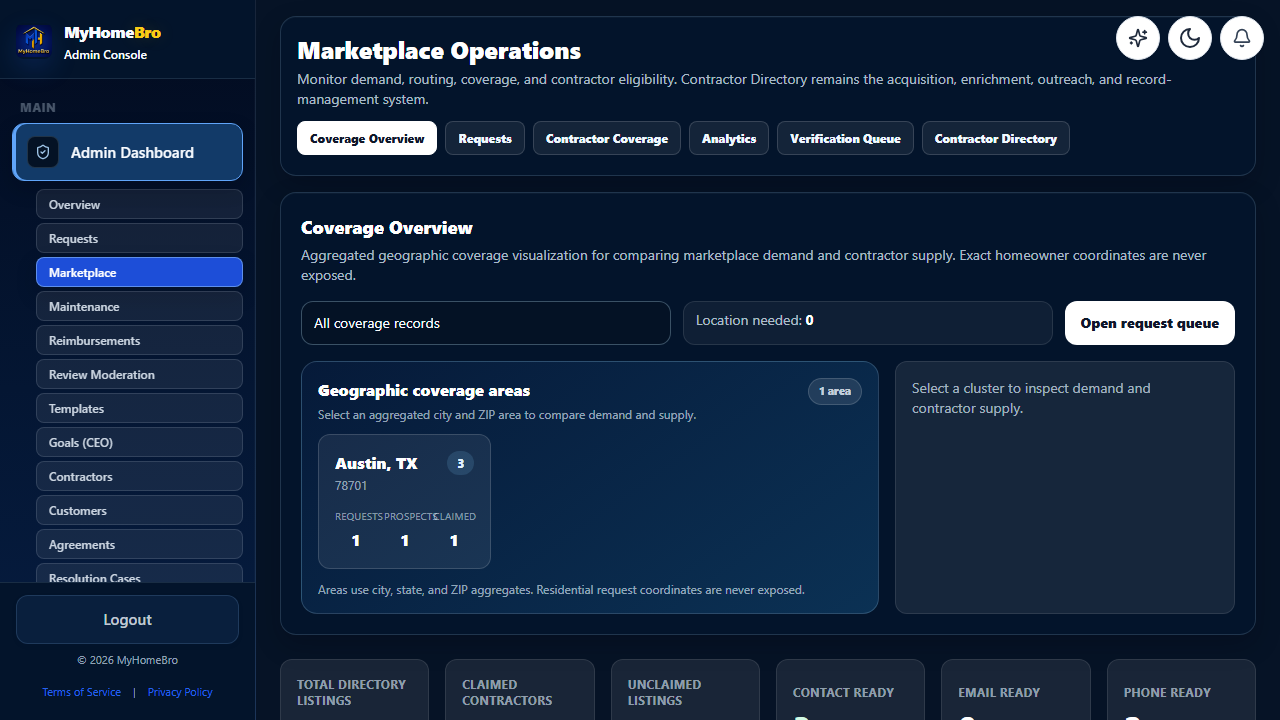
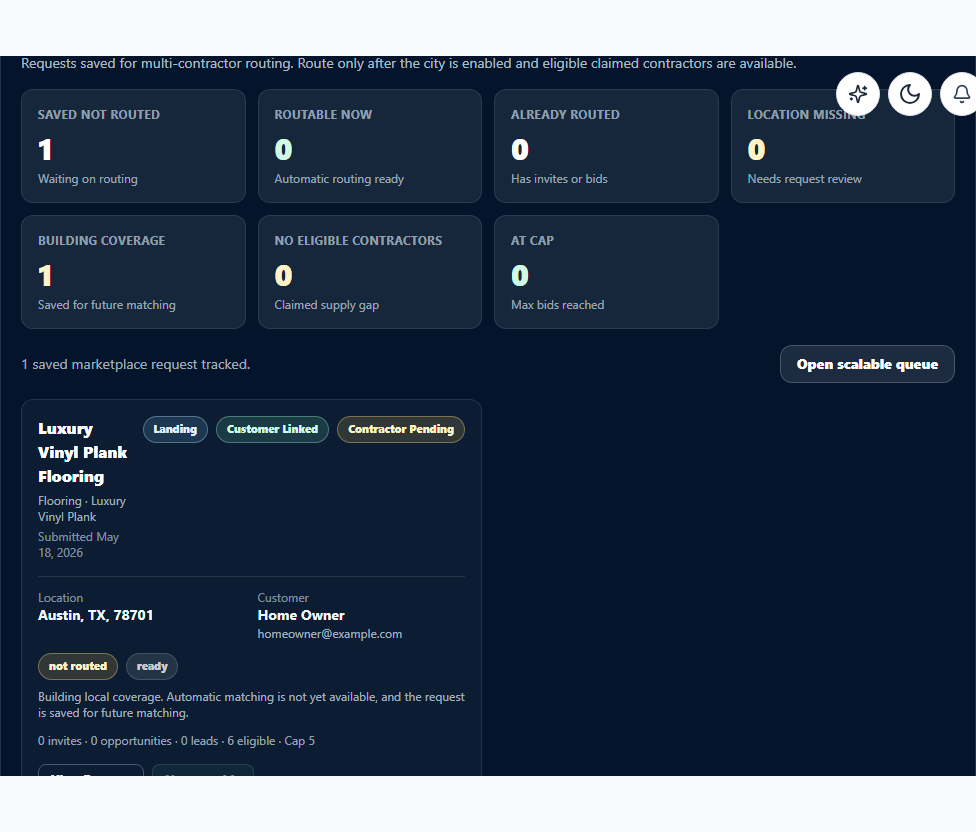
Stabilize marketplace policy validation
Correct stale and malformed test fixtures, isolate SMS dedupe cache state, and wait for the Vite app module before browser tests begin.

diff --git a/frontend/tests/admin-marketplace.spec.js b/frontend/tests/admin-marketplace.spec.js
@@ -776,7 +776,9 @@ test('admin marketplace routes saved requests after location enablement without 
   await expect(page.getByTestId('admin-marketplace-route-request-501')).toBeDisabled();
   await expect(page.getByTestId('admin-marketplace-backlog-disabled')).toContainText('1');
   await expect(page.getByTestId('admin-marketplace-backlog-disabled')).toContainText('Building Coverage');
-  await page.screenshot({ path: 'test-results/marketplace-location-admin-saved-not-routed.png', fullPage: true });
+  await page.getByTestId('admin-marketplace-saved-requests').screenshot({
+    path: 'test-results/marketplace-location-admin-saved-not-routed.png',
+  });
 
   await page.getByTestId('admin-marketplace-location-enable-Austin-TX').click();
   await expect(page.getByTestId('admin-marketplace-status')).toContainText('Austin, TX activated for automatic routing');

diff --git a/frontend/tests/contractor-discovery.spec.js b/frontend/tests/contractor-discovery.spec.js
@@ -199,7 +199,7 @@ test("public intake surfaces contractor discovery and creates pending review opp
   const verifiedCard = page.getByTestId("public-intake-contractor-card-contractor:12");
   const listingCard = page.getByTestId("public-intake-contractor-card-listing:33");
   await expect(verifiedCard.getByText("Verified on MyHomeBro")).toBeVisible();
-  await expect(listingCard.getByText("Local supply lead")).toBeVisible();
+  await expect(listingCard.getByText("Local business listing")).toBeVisible();
   await expect(listingCard.getByText("must claim and be approved")).toBeVisible();
   await expect(verifiedCard.getByTitle("Homeowner participates with contractor guidance and support.")).toBeVisible();
   await expect(verifiedCard.getByText("Inspection Capable")).toBeVisible();

diff --git a/frontend/playwright.config.js b/frontend/playwright.config.js
@@ -36,7 +36,7 @@ export default defineConfig({
   ],
   webServer: {
     command: `cross-env ${captureTestEnv} npm.cmd run dev -- --host ${HOST} --port ${PORT}`,
-    url: baseURL,
+    url: `${baseURL}/src/main.jsx`,
     reuseExistingServer: !process.env.CI,
     timeout: 120 * 1000,
   },

diff --git a/backend/projects/tests_contractor_opportunities.py b/backend/projects/tests_contractor_opportunities.py
@@ -2,11 +2,20 @@ from unittest.mock import MagicMock, patch
 from datetime import datetime, time, timedelta
 
 from django.contrib.auth import get_user_model
+from django.core.cache import cache
 from django.test import TestCase, override_settings
 from django.utils import timezone
 from rest_framework.test import APIClient
 
-from projects.models import Agreement, AgreementAssignment, Contractor, Homeowner, Notification, PublicContractorLead
+from projects.models import (
+    Agreement,
+    AgreementAssignment,
+    Contractor,
+    ContractorPublicProfile,
+    Homeowner,
+    Notification,
+    PublicContractorLead,
+)
 from projects.models_contractor_discovery import (
     ContractorDirectoryDiscovery,
     ContractorDirectoryEntry,
@@ -43,6 +52,7 @@ def _use_secure_requests(client):
 
 class ContractorOpportunityFlowTests(TestCase):
     def setUp(self):
+        cache.clear()
         User = get_user_model()
         self.contractor_user = User.objects.create_user(
             email="contractor@example.com",
@@ -540,7 +550,9 @@ class ContractorOpportunityFlowTests(TestCase):
             {
                 "source_type": "opportunity",
                 "source_id": opportunity.id,
-                "scheduled_start": "2026-08-12T14:30:00Z",
+                "scheduled_start": (timezone.now() + timedelta(days=2)).replace(
+                    minute=30, second=0, microsecond=0
+                ).isoformat(),
                 "duration_minutes": 60,
                 "appointment_type": "in_person",
                 "notes": "Confirm slab access.",
@@ -553,7 +565,7 @@ class ContractorOpportunityFlowTests(TestCase):
         appointment = OpportunityEstimateAppointment.objects.get()
         self.assertEqual(appointment.contractor, self.contractor)
         self.assertEqual(appointment.contractor_opportunity, opportunity)
-        self.assertEqual(appointment.status, OpportunityEstimateAppointment.STATUS_SCHEDULED)
+        self.assertEqual(appointment.status, OpportunityEstimateAppointment.STATUS_PROPOSED)
         self.assertEqual(appointment.requested_by, OpportunityEstimateAppointment.REQUESTED_BY_CONTRACTOR)
         self.assertEqual(appointment.timezone, "America/Chicago")
         self.assertIn("Concrete Patio Extension", appointment.customer_message)
@@ -578,8 +590,14 @@ class ContractorOpportunityFlowTests(TestCase):
         )
 
     def test_contractor_can_schedule_estimate_for_public_website_lead(self):
+        public_profile = ContractorPublicProfile.objects.create(
+            contractor=self.contractor,
+            business_name_public=self.contractor.business_name,
+            is_public=True,
+        )
         lead = PublicContractorLead.objects.create(
             contractor=self.contractor,
+            public_profile=public_profile,
             full_name="Website Homeowner",
             email="website-homeowner@example.com",
             phone="512-555-0101",
@@ -595,7 +613,9 @@ class ContractorOpportunityFlowTests(TestCase):
             {
                 "source_type": "lead",
                 "source_id": lead.id,
-                "scheduled_start": (timezone.now() + timedelta(days=2)).isoformat(),
+                "scheduled_start": (timezone.now() + timedelta(days=2)).replace(
+                    minute=30, second=0, microsecond=0
+                ).isoformat(),
                 "duration_minutes": 60,
                 "appointment_type": "in_person",
                 "service_location": "100 QA Test Lane, Austin, TX",

diff --git a/backend/accounts/tests_verification.py b/backend/accounts/tests_verification.py
@@ -89,6 +89,10 @@ class AccountVerificationTests(TestCase):
         user = User.objects.get(email="new.contractor@example.com")
         self.assertFalse(user.is_active)
         self.assertEqual(user.verification_state, User.VerificationState.PENDING_EMAIL)
+        self.assertEqual(user.phone_number_normalized, "+12105550144")
+        self.assertEqual(user.verification_continuation, "/improvements/bathroom/replace-toilet/diy")
+        self.assertEqual(len(mail.outbox), 1)
+        self.assertNotIn("Strong-Test-Password", mail.outbox[0].body)
 
     def test_contractor_registration_is_not_blocked_by_unready_location(self):
         MarketplaceLocation.objects.create(city="Dallas", state="TX", is_enabled=False)
@@ -99,10 +103,6 @@ class AccountVerificationTests(TestCase):
         user = User.objects.get(email="unready-location-contractor@example.com")
         self.assertFalse(user.is_active)
         self.assertEqual(user.verification_state, User.VerificationState.PENDING_EMAIL)
-        self.assertEqual(user.phone_number_normalized, "+12105550144")
-        self.assertEqual(user.verification_continuation, "/improvements/bathroom/replace-toilet/diy")
-        self.assertEqual(len(mail.outbox), 1)
-        self.assertNotIn("Strong-Test-Password", mail.outbox[0].body)
 
     def test_honeypot_returns_plausible_success_without_account(self):
         response = self.register(company_website="https://bot.invalid")
